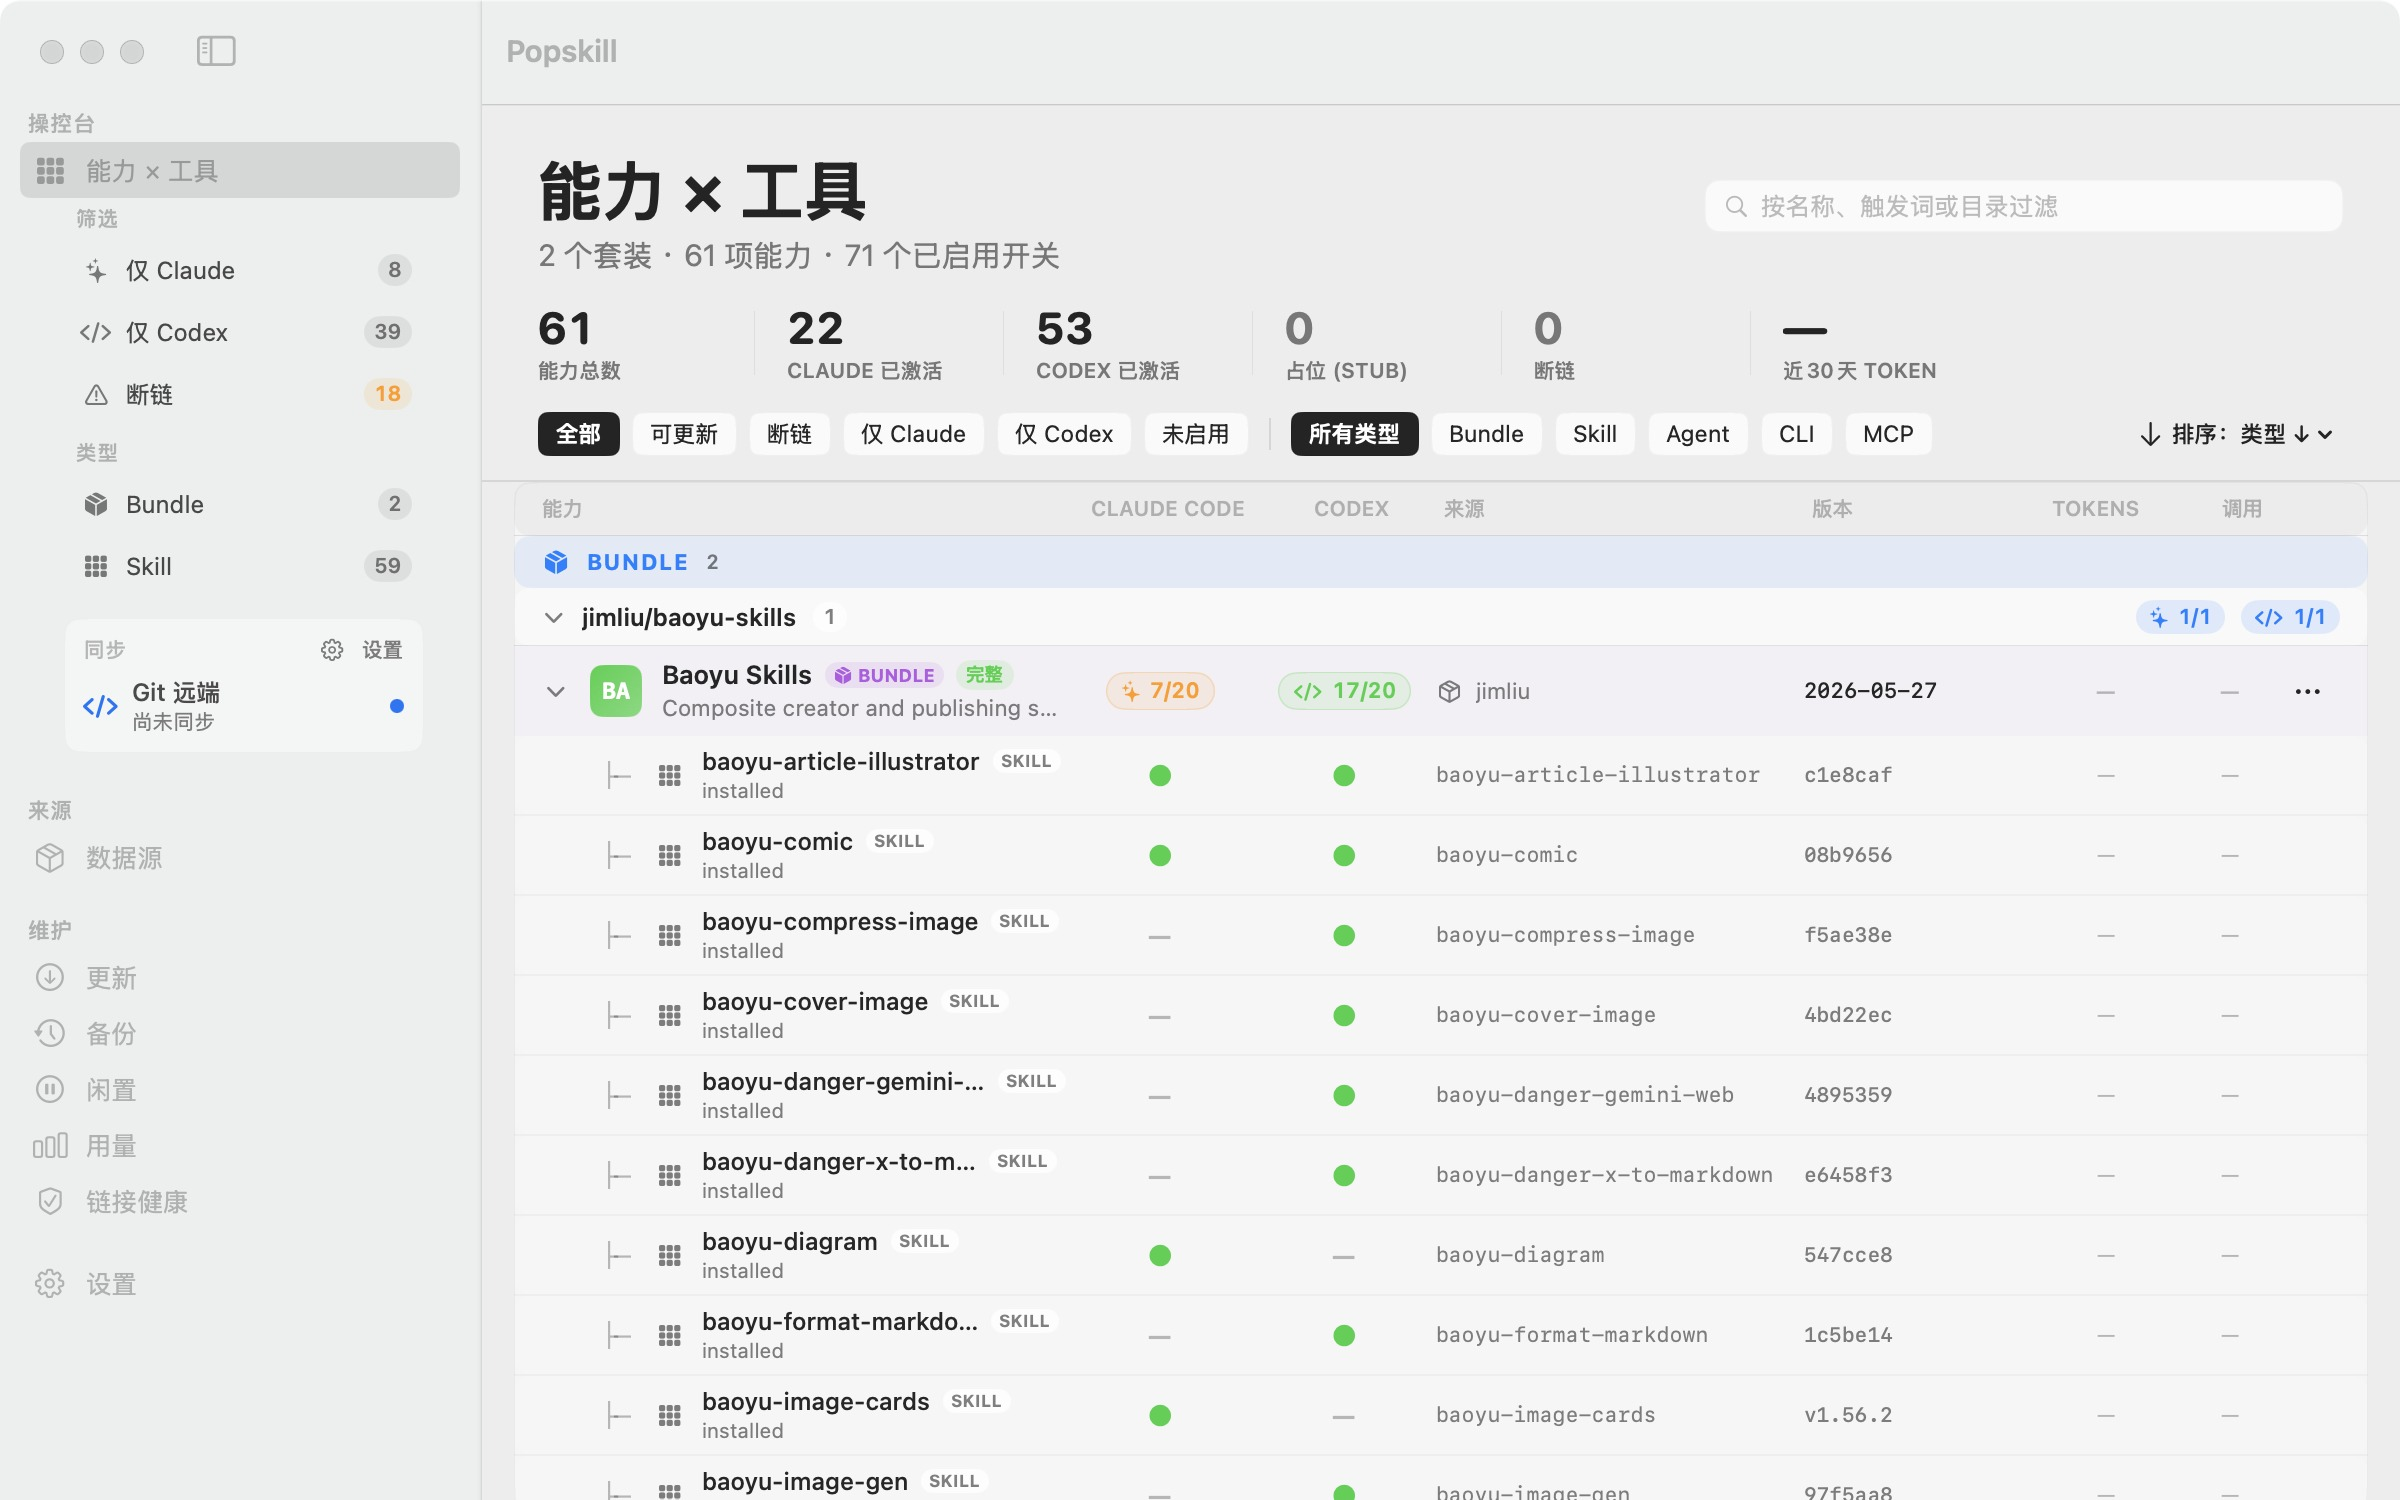
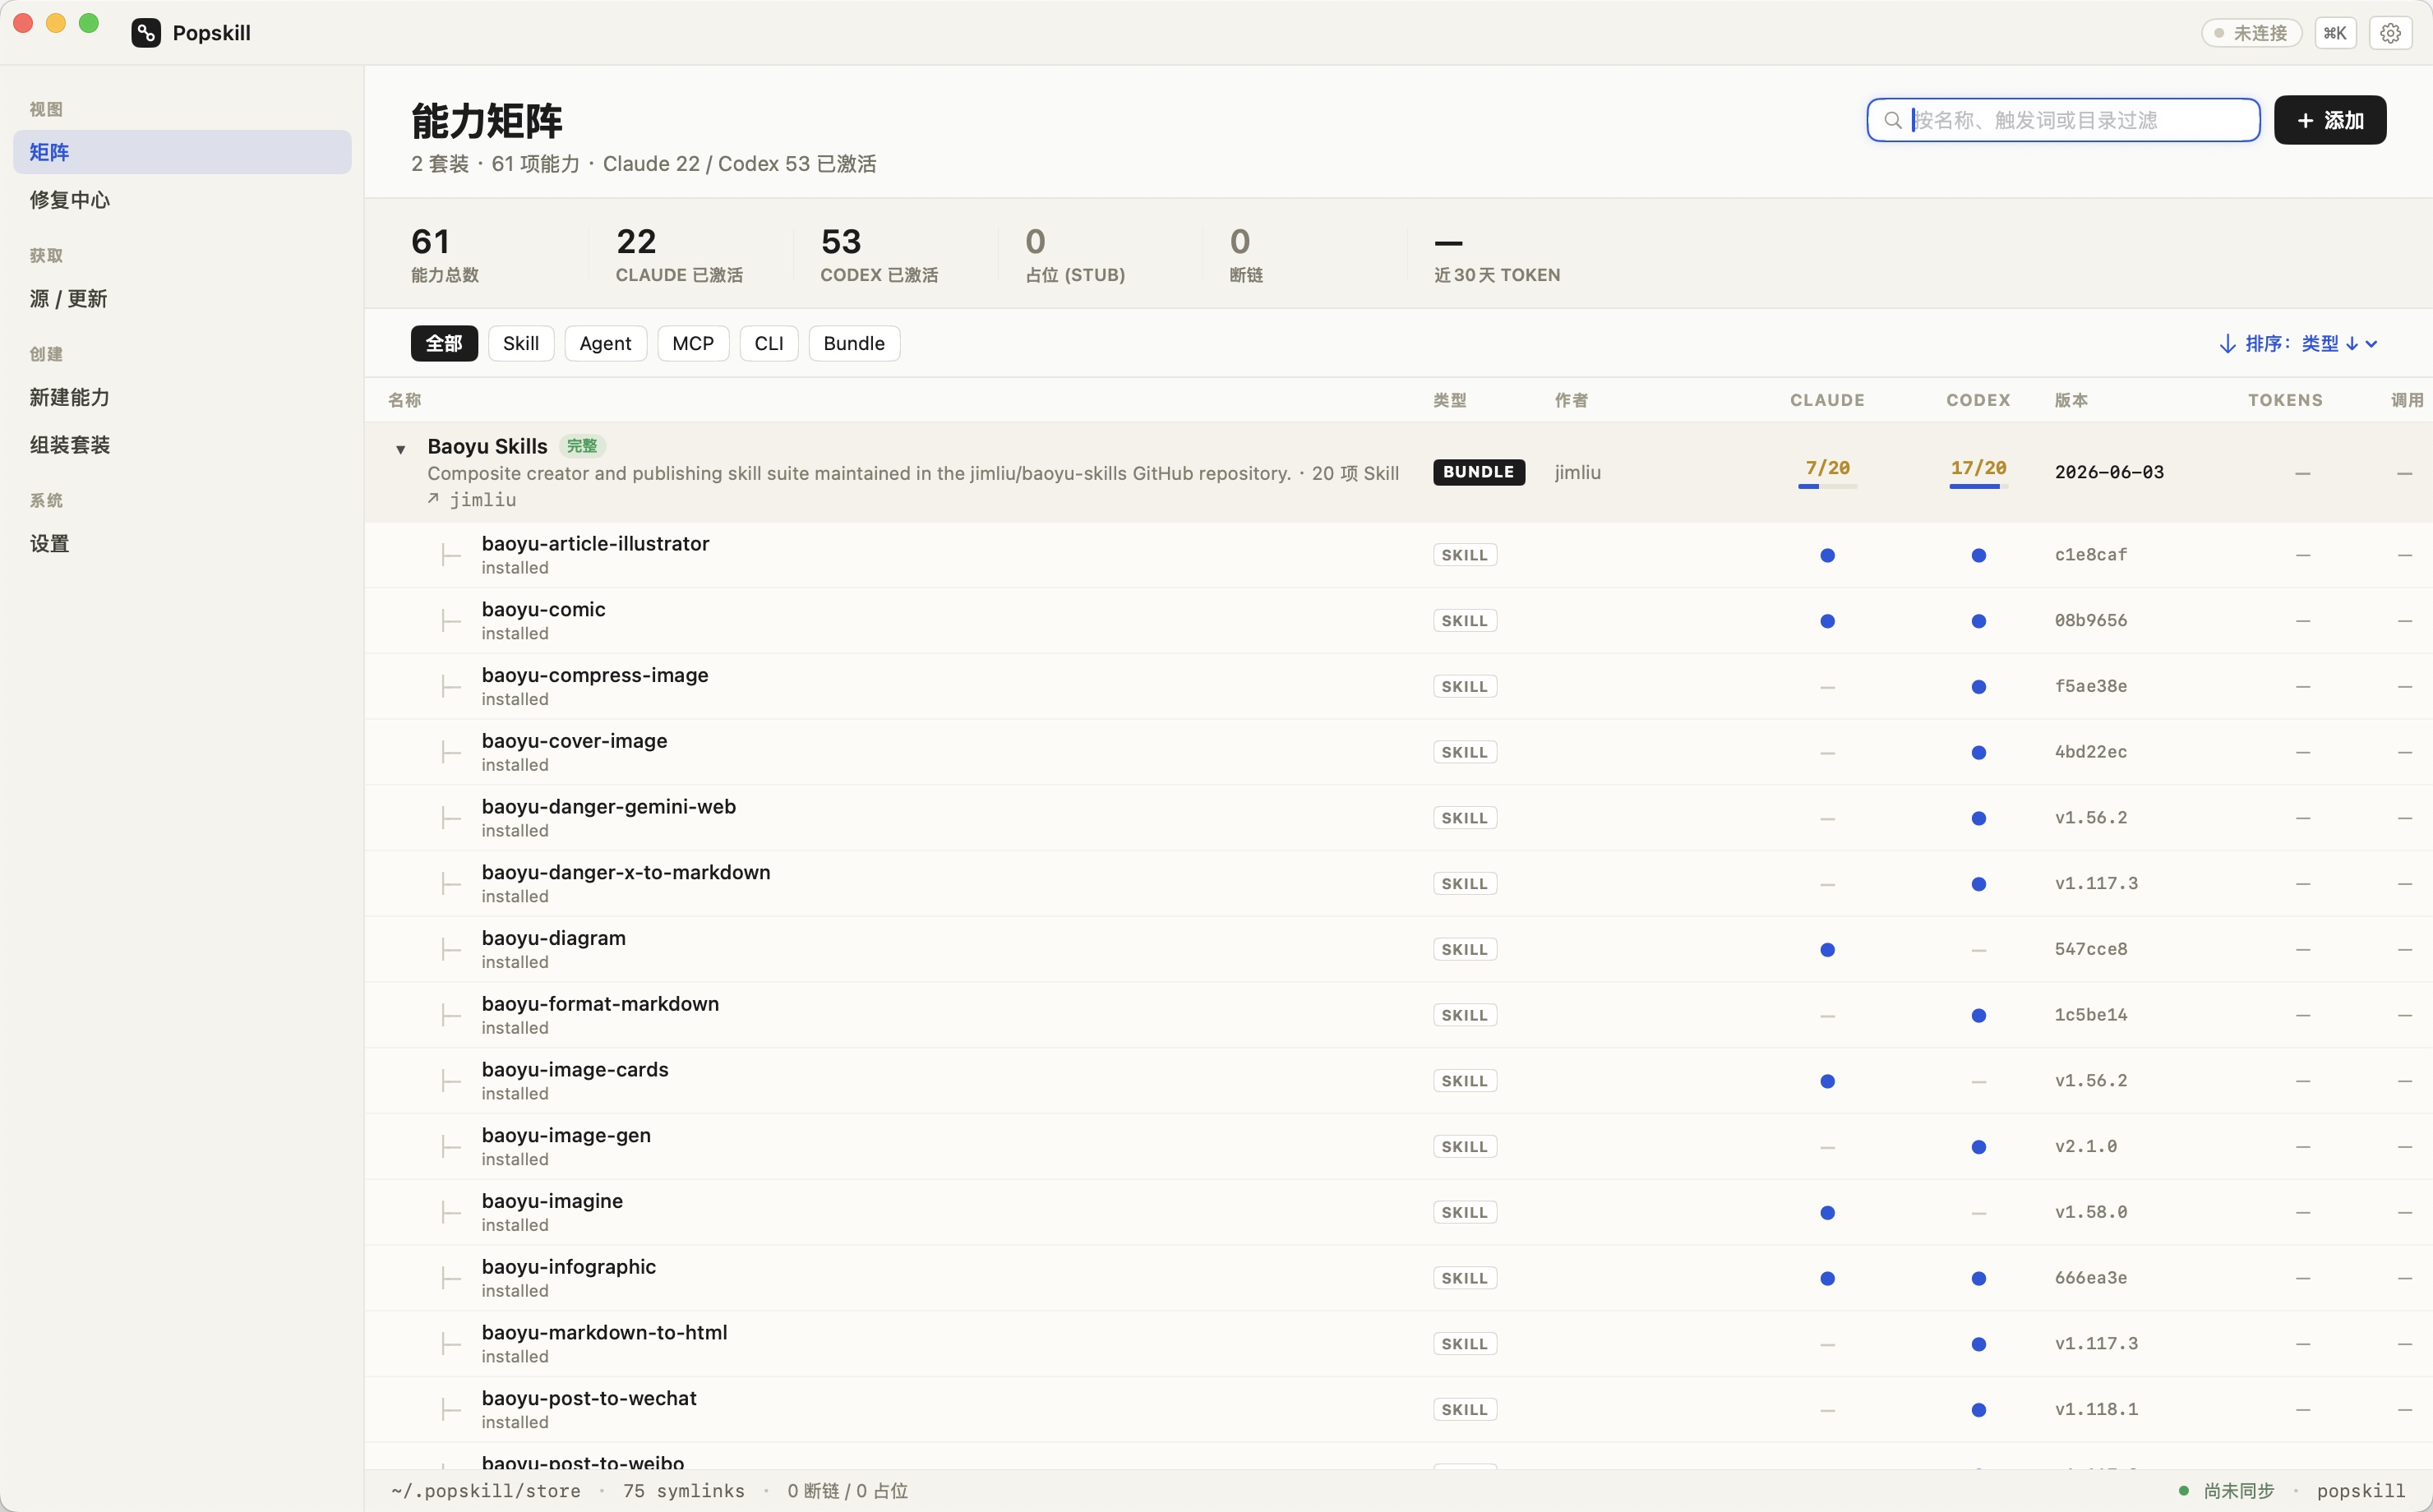
docs: refresh screenshots + README grid to the v1.1.0 ledger UI
The old shots showed the pre-redesign UI (one was Insights, now removed from
the IA). Replace with the new ledger UI: hero = matrix, grid = inspector /
create / compose / settings. Drop the stale matrix/spotlight/insights/
onboarding images.

diff --git a/README.en.md b/README.en.md
@@ -47,20 +47,20 @@ The annoying part isn't the symlink itself — it's **not knowing which side has
 
 <table>
 <tr>
-<td width="50%"><img src="docs/screenshots/matrix.jpg" alt="Capability × tool matrix"></td>
-<td width="50%"><img src="docs/screenshots/spotlight.jpg" alt="⌘K Spotlight"></td>
+<td width="50%"><img src="docs/screenshots/inspector.jpg" alt="Full-page Inspector"></td>
+<td width="50%"><img src="docs/screenshots/create.jpg" alt="New Capability"></td>
 </tr>
 <tr>
-<td><b>Capability × tool matrix</b> — one row per skill, one column per AI tool, click to toggle</td>
-<td><b>⌘K Spotlight</b> — search anywhere; ⌘1 / ⌘2 to toggle Claude / Codex directly on a result</td>
+<td><b>Full-page Inspector</b> — open any capability: Claude/Codex coverage, component list, source / SSOT / version / this-machine usage</td>
+<td><b>New Capability</b> — editor + live matrix-row preview + install-target toggles + a "will write" terminal plan</td>
 </tr>
 <tr>
-<td width="50%"><img src="docs/screenshots/insights.jpg" alt="Token usage"></td>
-<td width="50%"><img src="docs/screenshots/settings.jpg" alt="Settings + sync"></td>
+<td width="50%"><img src="docs/screenshots/compose.jpg" alt="Compose Bundle"></td>
+<td width="50%"><img src="docs/screenshots/settings.jpg" alt="Settings"></td>
 </tr>
 <tr>
-<td><b>Token usage</b> — scans ~/.claude/projects locally for total tokens + top 10 capabilities by usage</td>
-<td><b>Sync</b> — iCloud Drive or Git remote, cross-Mac auto-sync</td>
+<td><b>Compose Bundle</b> — check existing capabilities → live coverage + a generated popskill.toml</td>
+<td><b>Settings</b> — tabbed (Connect / Sync / Sources / Install / Quota / About): tool connections + source management</td>
 </tr>
 </table>
 